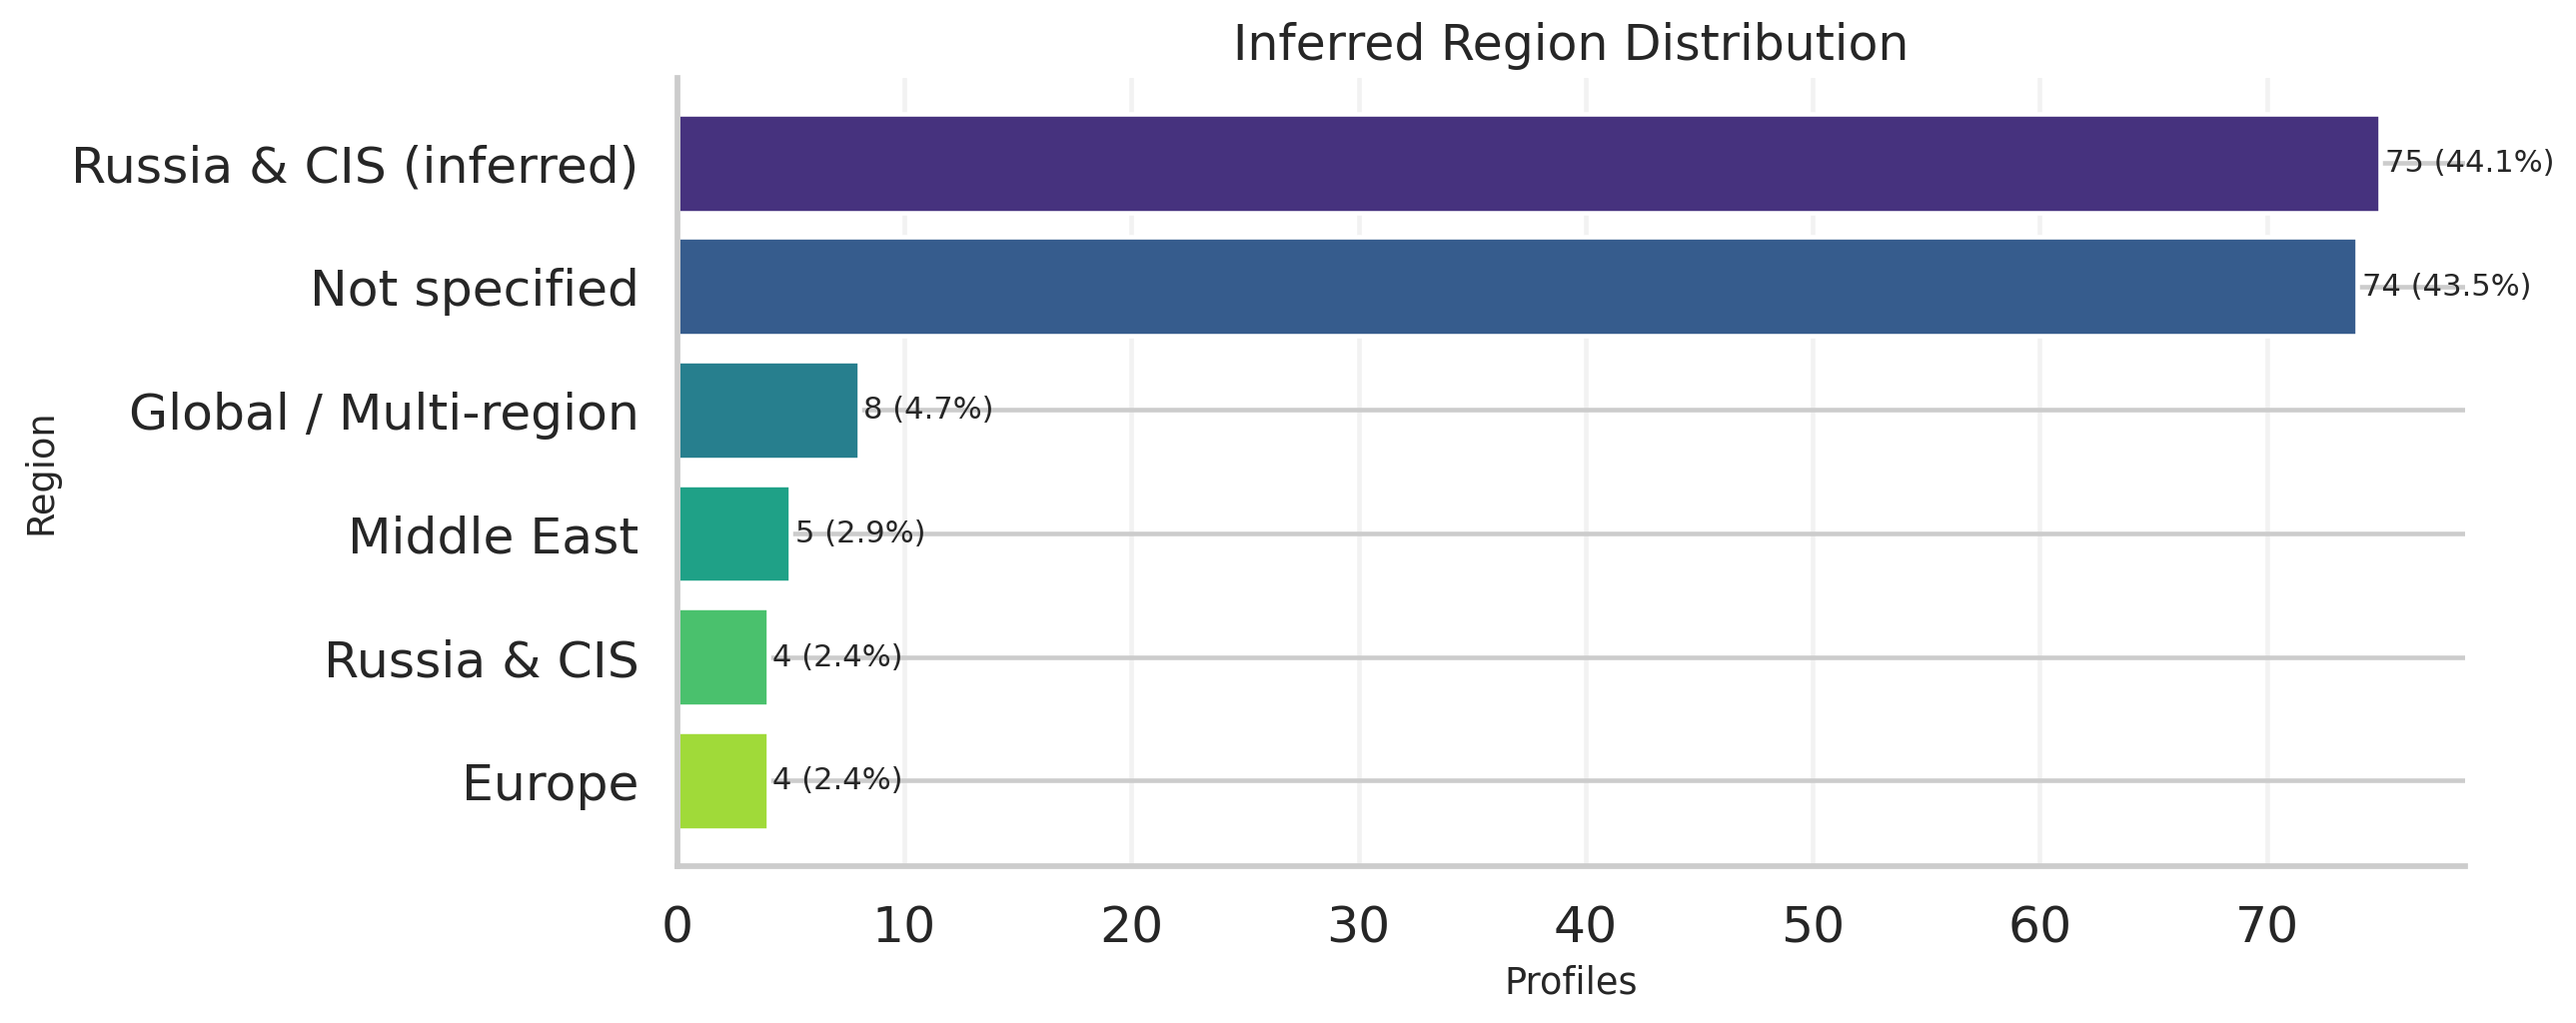
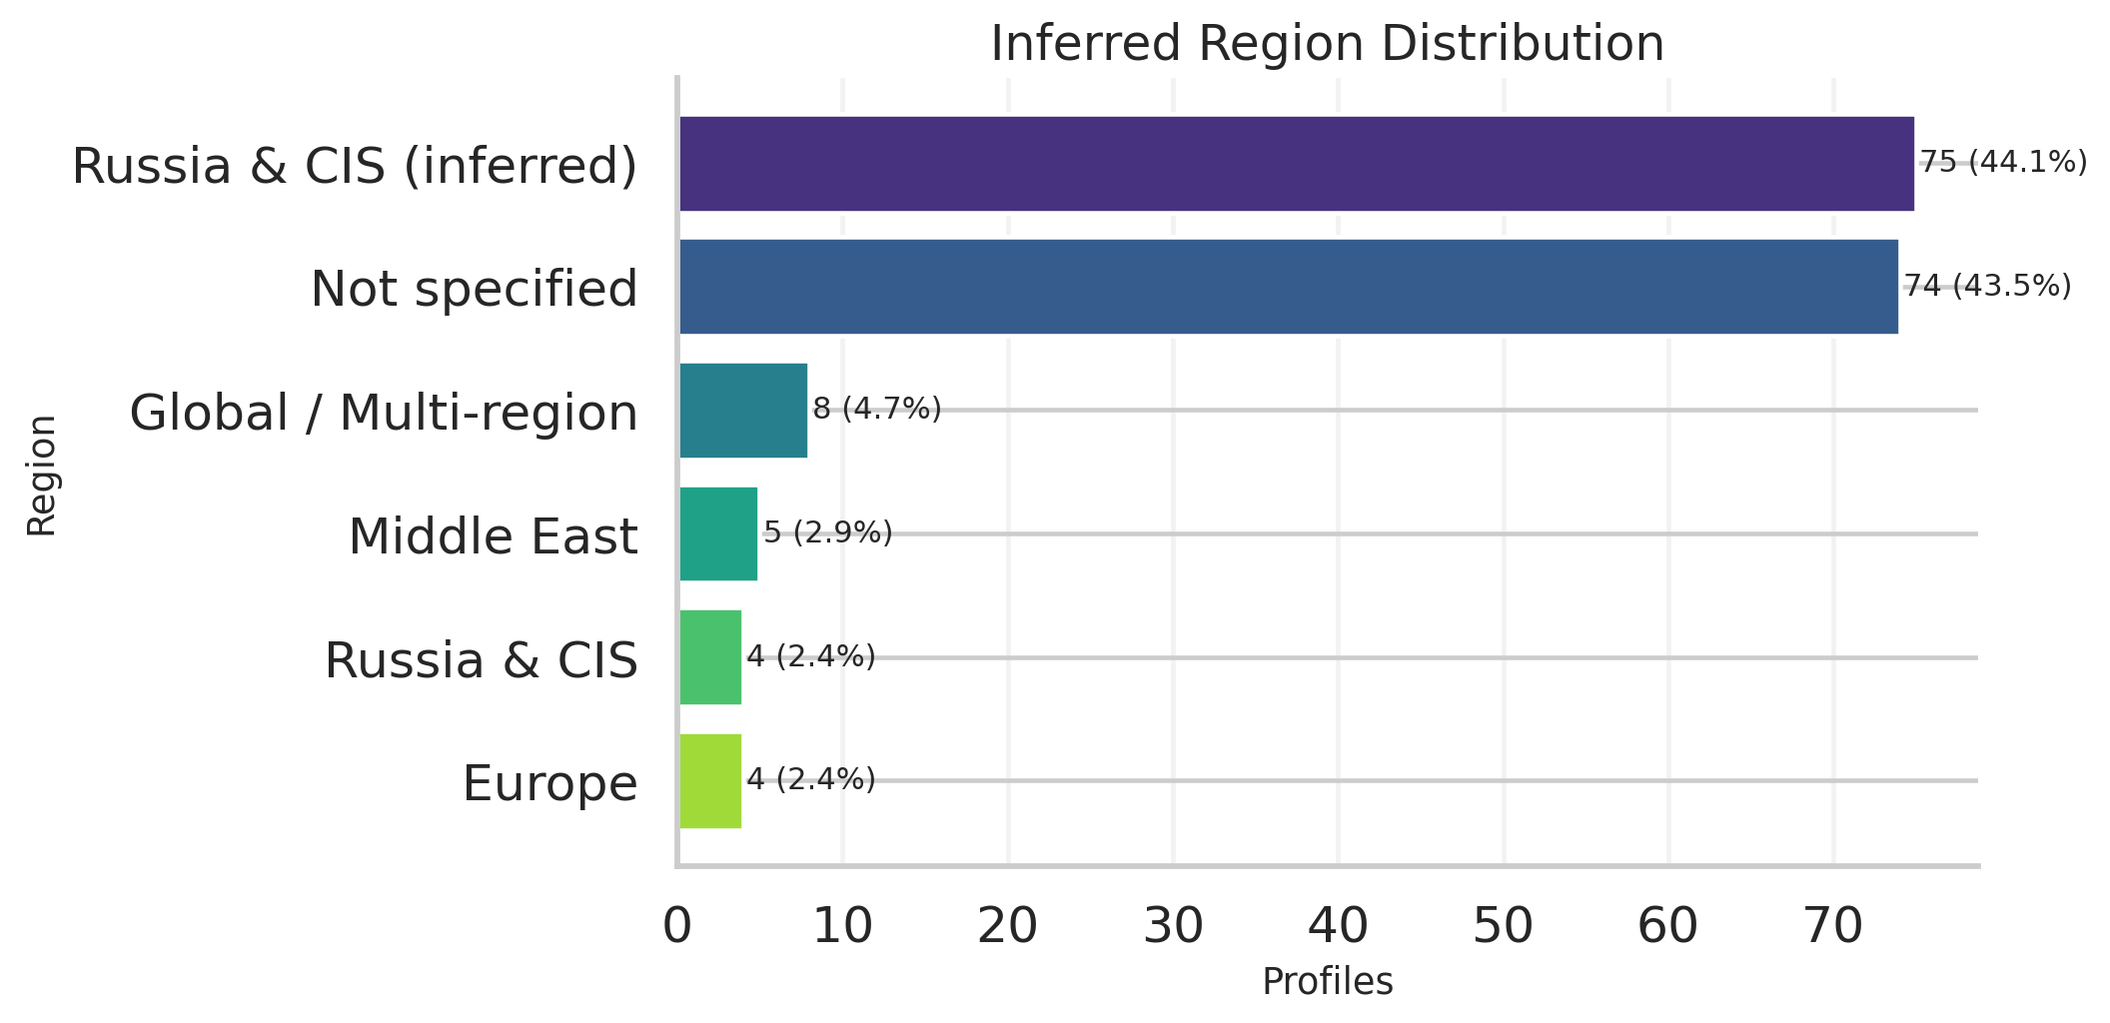
Fix top skills chart labels and counting

diff --git a/analysis/run_eda_2026_02_26.py b/analysis/run_eda_2026_02_26.py
@@ -563,14 +563,15 @@ def save_countplot(
     path: Path,
     top_n: int | None = None,
     horizontal: bool = True,
+    pre_counted: bool = False,
 ) -> None:
-    data = series.value_counts(dropna=False)
+    data = series.copy() if pre_counted else series.value_counts(dropna=False)
     if top_n is not None:
         data = data.head(top_n)
 
     total = data.sum()
 
-    fig, ax = plt.subplots(figsize=(12, max(5, 0.45 * len(data) + 2)))
+    fig, ax = plt.subplots(figsize=(13, max(5, 0.45 * len(data) + 2)))
     colors = sns.color_palette("viridis", n_colors=len(data))
 
     if horizontal:
@@ -591,7 +592,10 @@ def save_countplot(
     ax.set_ylabel(ylabel)
     ax.grid(axis="x" if horizontal else "y", alpha=0.25)
     sns.despine(ax=ax, left=False, bottom=False)
-    fig.tight_layout()
+    if horizontal:
+        fig.tight_layout(rect=(0.25, 0, 1, 1))
+    else:
+        fig.tight_layout()
     fig.savefig(path, bbox_inches="tight")
     plt.close(fig)
 
@@ -761,6 +765,7 @@ def main() -> None:
             "Skill",
             FIG_DIR / "10_top_skills.png",
             top_n=25,
+            pre_counted=True,
         )
 
     enriched_path = OUT_DIR / "profiles_2026_02_26_enriched.csv"
